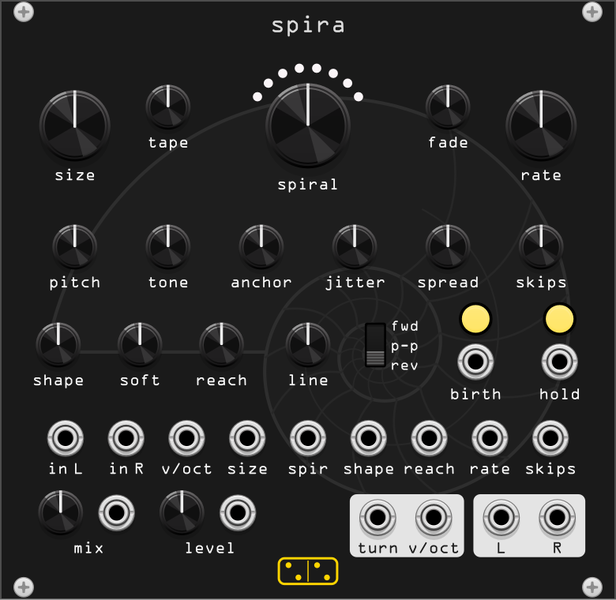
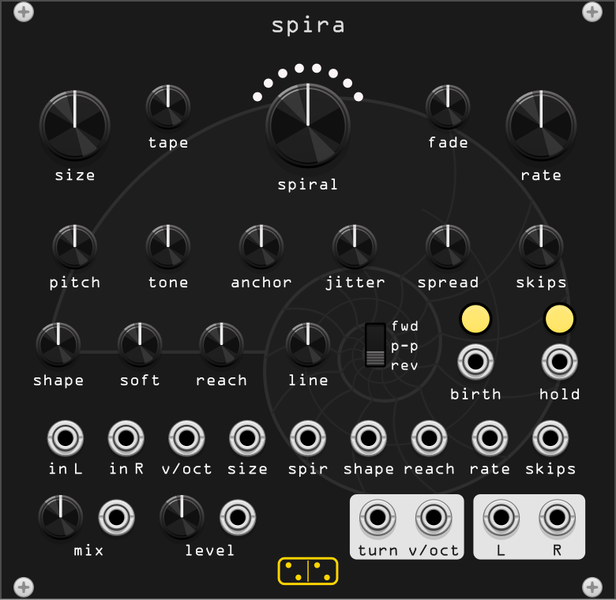
fix(spira): MIX and LEVEL level with the output jacks, one label baseline for the bottom row
Claude-Session: https://claude.ai/code/session_01SYmKkk5ugc3NX2Qbio7aJd

diff --git a/src/spira.cpp b/src/spira.cpp
@@ -424,8 +424,8 @@ struct SpiraWidget : ModuleWidget {
 // @elem LABEL_REV label 0.0 label "rev" 0.0 86.76 79.20 size=2
 // @elem LABEL_SPREAD label 0.0 label "spread" 0.0 96.04 61.50
 // @elem LABEL_SKIPS label 0.0 label "skips" 0.0 116.04 61.50
-// @elem LABEL_MIX label 0.0 label "mix" 0.0 19.00 118.50
-// @elem LABEL_LEVEL label 0.0 label "level" 0.0 45.00 118.50
+// @elem LABEL_MIX label 0.0 label "mix" 0.0 19.00 119.00
+// @elem LABEL_LEVEL label 0.0 label "level" 0.0 45.00 119.00
 // @elem LABEL_BIRTH label 0.0 label "birth" 0.0 102.00 85.50
 // @elem LABEL_HOLD label 0.0 label "hold" 0.0 120.00 85.50
 // @elem LABEL_IN_L label 0.0 label "in L" 0.0 14.04 101.50
@@ -437,12 +437,12 @@ struct SpiraWidget : ModuleWidget {
 // @elem LABEL_REACH_IN label 0.0 label "reach" 0.0 92.04 101.50
 // @elem LABEL_RATE_IN label 0.0 label "rate" 0.0 105.04 101.50
 // @elem LABEL_SKIPS_IN label 0.0 label "skips" 0.0 118.04 101.50
-// @elem BOX_CV_OUT panel_box 7.0 box "" 0.0 87.25 112.75 box=24.5x13.5
-// @elem LABEL_TURN_OUT label 0.0 label "turn" 0.0 81.00 118.50
-// @elem LABEL_VOCT_OUT label 0.0 label "v/oct" 0.0 93.00 118.50
-// @elem BOX_AUDIO_OUT panel_box 7.0 box "" 0.0 113.50 112.75 box=24x13.5
-// @elem LABEL_L_OUT label 0.0 label "L" 0.0 107.50 118.50
-// @elem LABEL_R_OUT label 0.0 label "R" 0.0 119.50 118.50
+// @elem BOX_CV_OUT panel_box 7.0 box "" 0.0 87.25 113.00 box=24.5x14
+// @elem LABEL_TURN_OUT label 0.0 label "turn" 0.0 81.00 119.00
+// @elem LABEL_VOCT_OUT label 0.0 label "v/oct" 0.0 93.00 119.00
+// @elem BOX_AUDIO_OUT panel_box 7.0 box "" 0.0 113.50 113.00 box=24x14
+// @elem LABEL_L_OUT label 0.0 label "L" 0.0 107.50 119.00
+// @elem LABEL_R_OUT label 0.0 label "R" 0.0 119.50 119.00
 // @elem LOGO forsitan_logo 0.0 logo "" 0.0 66.04 122.50
 
         addChild(createWidget<ScrewSilver>(mm2px(Vec(2.54f, 0.00f)))); // SCREW_TL
@@ -473,10 +473,10 @@ struct SpiraWidget : ModuleWidget {
         addParam(createParamCentered<CKSSThreePos>(mm2px(Vec(80.50f, 74.00f)), module, Spira::DIRECTION_PARAM));
         addParam(createParamCentered<RoundBlackKnob>(mm2px(Vec(96.04f, 53.00f)), module, Spira::SPREAD_PARAM));
         addParam(createParamCentered<RoundBlackKnob>(mm2px(Vec(116.04f, 53.00f)), module, Spira::SKIPS_PARAM));
-        addParam(createParamCentered<RoundBlackKnob>(mm2px(Vec(13.00f, 110.00f)), module, Spira::MIX_PARAM));
-        addParam(createParamCentered<RoundBlackKnob>(mm2px(Vec(39.00f, 110.00f)), module, Spira::LEVEL_PARAM));
-        addInput(createInputCentered<PJ301MPort>(mm2px(Vec(25.00f, 110.00f)), module, Spira::MIX_INPUT));
-        addInput(createInputCentered<PJ301MPort>(mm2px(Vec(51.00f, 110.00f)), module, Spira::LEVEL_INPUT));
+        addParam(createParamCentered<RoundBlackKnob>(mm2px(Vec(13.00f, 111.00f)), module, Spira::MIX_PARAM));
+        addParam(createParamCentered<RoundBlackKnob>(mm2px(Vec(39.00f, 111.00f)), module, Spira::LEVEL_PARAM));
+        addInput(createInputCentered<PJ301MPort>(mm2px(Vec(25.00f, 111.00f)), module, Spira::MIX_INPUT));
+        addInput(createInputCentered<PJ301MPort>(mm2px(Vec(51.00f, 111.00f)), module, Spira::LEVEL_INPUT));
         addParam(createLightParamCentered<VCVLightBezel<YellowLight>>(mm2px(Vec(102.00f, 68.40f)), module, Spira::BIRTH_PARAM, Spira::BIRTH_LIGHT));
         addParam(createLightParamCentered<VCVLightBezel<YellowLight>>(mm2px(Vec(120.00f, 68.40f)), module, Spira::HOLD_PARAM, Spira::HOLD_LIGHT));
         addInput(createInputCentered<PJ301MPort>(mm2px(Vec(14.04f, 94.00f)), module, Spira::IN_L_INPUT));
